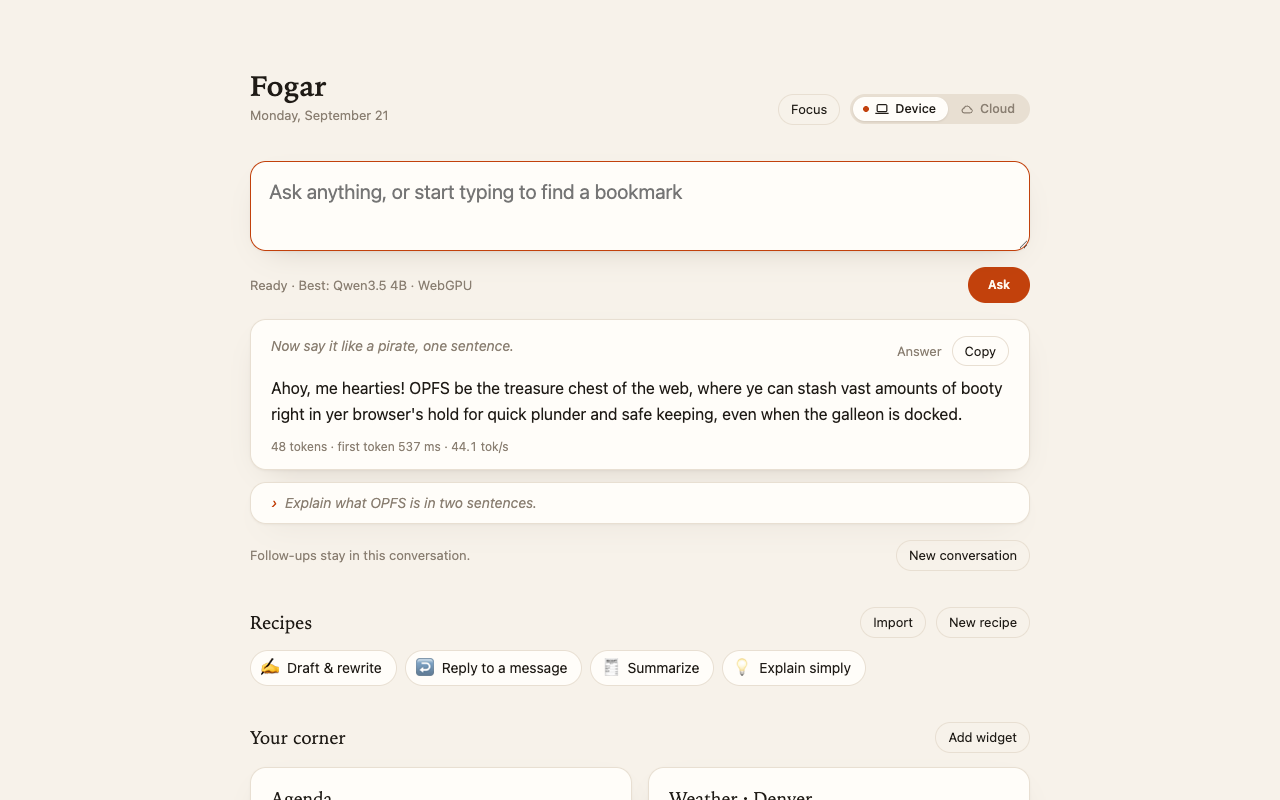
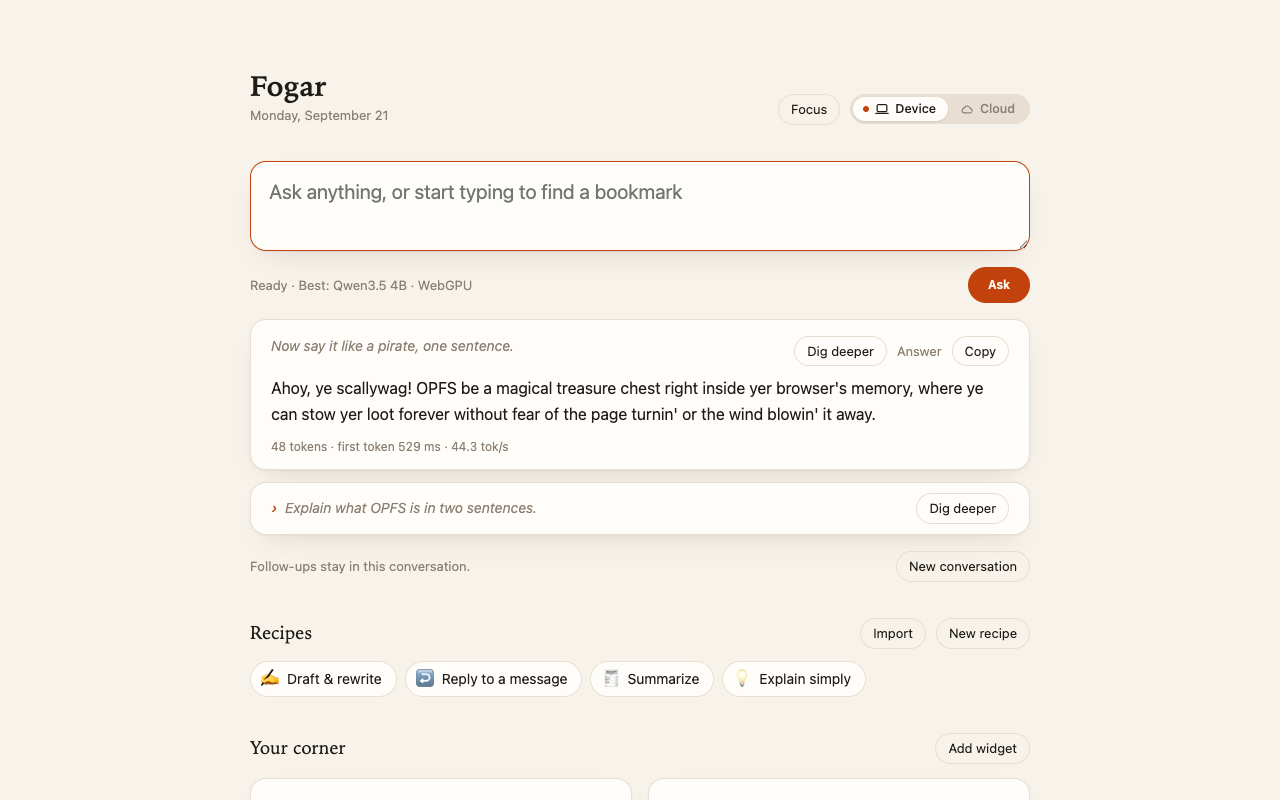
Pre-launch: model loads on intent and releases when hidden; 4B only on Apple; MIT license
- A new tab no longer loads the model on open. The cached model comes
  up when the user types a question, opens a recipe, or asks; a bare
  URL or a search prefix does not trigger it. A tab hidden for five
  minutes releases the model; the next interaction reloads it from
  disk. Removes the N tabs x up to 2.7 GB failure mode and the GPU
  spin-up on every Cmd+T.
- Tier recommendation: the 4B only on Apple silicon, where memory is
  unified. Chrome reports system RAM, not VRAM, so a discrete GPU with
  2 to 4 GB was being handed a 2.7 GB model.
- MIT LICENSE; README license section and load-policy bullet.
- Store screenshots visit the Links sites first so favicons are real,
  and warm the model through the ask box.
- e2e: lazy load, typing loads, hidden release (33 flows).

diff --git a/entrypoints/newtab/app.ts b/entrypoints/newtab/app.ts
@@ -61,11 +61,16 @@ export class App {
   recommended: ModelSpec | null = null;
   private abort: AbortController | null = null;
   private loading = false;
+  private loadPromise: Promise<boolean> | null = null;
+  private releaseTimer: ReturnType<typeof setTimeout> | undefined;
+  /** How long a hidden tab keeps the model in memory before letting it go. Tests shorten this. */
+  releaseAfterMs = 5 * 60_000;
   private readonly readyListeners = new Set<() => void>();
   private toastTimer: ReturnType<typeof setTimeout> | undefined;
 
   async init(): Promise<void> {
     this.settings = await loadSettings();
+    document.addEventListener('visibilitychange', () => this.onVisibility());
     $('thread-clear').onclick = () => this.clearThread();
     // One listener closes any open "Dig deeper" menu on an outside click.
     document.addEventListener('click', (e) => {
@@ -87,6 +92,40 @@ export class App {
 
   onReadyChange(cb: () => void): void {
     this.readyListeners.add(cb);
+  }
+
+  /** A cached model that will load the moment the user shows intent. True only after a first successful load. */
+  autoLoadPending(): boolean {
+    return this.settings.mode === 'local' && this.settings.autoLoad && this.settings.onboarded && !this.local.loaded;
+  }
+
+  /** Can a question be taken right now, counting a model that will load on demand? */
+  canAnswer(): boolean {
+    return this.isReady() || this.autoLoadPending();
+  }
+
+  /**
+   * Load the cached model if it is not loaded yet. Opening a new tab does not load anything: most new tabs are
+   * for typing a URL, and every load costs seconds of GPU work and up to 2.7 GB of memory per tab. Typing a
+   * question, clicking a recipe, or asking does.
+   */
+  ensureModel(): Promise<boolean> {
+    if (this.isReady()) return Promise.resolve(true);
+    if (this.settings.mode !== 'local' || !this.autoLoadPending()) return Promise.resolve(this.isReady());
+    if (!this.loadPromise) this.loadPromise = this.loadModel().finally(() => { this.loadPromise = null; });
+    return this.loadPromise;
+  }
+
+  /** A tab nobody is looking at gives the model back after a while; the next interaction reloads it from disk. */
+  private onVisibility(): void {
+    clearTimeout(this.releaseTimer);
+    if (!document.hidden) return;
+    this.releaseTimer = setTimeout(async () => {
+      if (!document.hidden || this.isBusy() || !this.local.loaded || this.loading) return;
+      await this.local.unload();
+      document.body.dataset.status = 'idle';
+      this.refreshReadiness();
+    }, this.releaseAfterMs);
   }
 
   isReady(): boolean {
@@ -119,14 +158,17 @@ export class App {
 
   refreshReadiness(): void {
     const ready = this.isReady();
-    $<HTMLButtonElement>('ask-btn').disabled = !ready || this.isBusy();
-    $('web-search').hidden = ready;
+    const can = this.canAnswer();
+    $<HTMLButtonElement>('ask-btn').disabled = !can || this.isBusy();
+    $('web-search').hidden = can;
     $('ground-toggle').hidden = !groundingConfigured(this.settings.grounding);
     if (this.settings.mode === 'local') {
       const gpu = this.settings.gpu && LocalProvider.hasWebGPU() && !this.local.fellBackToCpu;
       this.setStatus(this.local.loaded
         ? `Ready · ${this.local.loaded.label} · ${gpu ? 'WebGPU' : 'CPU'}`
-        : this.loading ? $('status').textContent ?? '' : 'No model loaded. Open Settings to download one, or just search.');
+        : this.loading ? $('status').textContent ?? ''
+          : this.autoLoadPending() ? `${modelById(this.settings.modelId).label} · loads when you start typing`
+            : 'No model loaded. Open Settings to download one, or just search.');
     } else {
       let host = '';
       try { host = new URL(this.settings.cloud.endpoint).host; } catch { /* unset */ }
@@ -262,7 +304,7 @@ export class App {
 
   /** Stream a conversation into a new card. `messages` is sent as given; history is appended afterwards. */
   async ask(messages: Message[], opts: AskOptions = {}): Promise<void> {
-    if (!this.isReady()) return;
+    if (!this.isReady() && !(await this.ensureModel())) return;
     this.abort?.abort();
     this.abort = new AbortController();
     const signal = this.abort.signal;
@@ -395,7 +437,7 @@ export class App {
 
   /** The model cannot see bookmarks, so the finder reads them and lets the model pick. Results are links, not prose. */
   async findBookmarks(question: string): Promise<void> {
-    if (!this.isReady()) return;
+    if (!this.isReady() && !(await this.ensureModel())) return;
     this.abort?.abort();
     this.abort = new AbortController();
     const signal = this.abort.signal;

diff --git a/entrypoints/newtab/ui/recipes.ts b/entrypoints/newtab/ui/recipes.ts
@@ -27,7 +27,7 @@ export function initRecipes(app: App): RecipesUI {
     for (const r of await allRecipes()) {
       chips.append(el('button', {
         class: 'chip', type: 'button', 'aria-pressed': String(active === r.id),
-        onclick: () => (active === r.id ? close() : void openRun(r)),
+        onclick: () => { void app.ensureModel(); if (active === r.id) close(); else void openRun(r); },
       } as any, el('span', {}, r.emoji ?? '🧪'), r.name));
     }
   }
@@ -49,9 +49,9 @@ export function initRecipes(app: App): RecipesUI {
   function buildRunForm(recipe: Recipe, prefill: Record<string, string> = {}): HTMLElement {
     const fields = recipe.inputs.map((i) => inputField(i, prefill[i.key]));
     const values = () => Object.fromEntries(fields.map((f, idx) => [recipe.inputs[idx]!.key, f.read()]));
-    const run = el('button', { class: 'primary', type: 'button', disabled: !app.isReady(), onclick: () => void app.ask(recipeMessages(recipe, values(), SYSTEM_PROMPT), { label: recipe.name }) }, 'Run');
-    const hint = el('span', { class: 'hint' }, app.isReady() ? '' : 'Load a model or set a cloud endpoint to run recipes.');
-    app.onReadyChange(() => { run.disabled = !app.isReady(); hint.textContent = app.isReady() ? '' : 'Load a model or set a cloud endpoint to run recipes.'; });
+    const run = el('button', { class: 'primary', type: 'button', disabled: !app.canAnswer(), onclick: () => void app.ask(recipeMessages(recipe, values(), SYSTEM_PROMPT), { label: recipe.name }) }, 'Run');
+    const hint = el('span', { class: 'hint' }, app.canAnswer() ? '' : 'Load a model or set a cloud endpoint to run recipes.');
+    app.onReadyChange(() => { run.disabled = !app.canAnswer(); hint.textContent = app.canAnswer() ? '' : 'Load a model or set a cloud endpoint to run recipes.'; });
     const textareas = fields.filter((_, idx) => recipe.inputs[idx]!.type === 'textarea').map((f) => f.node);
     const others = fields.filter((_, idx) => recipe.inputs[idx]!.type !== 'textarea').map((f) => f.node);
     const form = el('div', { class: 'recipe-run' }, ...textareas);

diff --git a/entrypoints/newtab/main.ts b/entrypoints/newtab/main.ts
@@ -31,6 +31,7 @@ const PROMO: Array<[label: string, href: string]> = [
 async function main() {
   const app = new App();
   await app.init();
+  const releaseMs = params.get('releasems'); if (releaseMs) app.releaseAfterMs = Number(releaseMs); // test hook
   const s = app.settings;
   app.device = await detectDevice();
   app.recommended = recommendModel(app.device);
@@ -39,7 +40,7 @@ async function main() {
 
   if (EVAL) { await runEval(app); return; }
   if (SMOKE || E2E) {
-    s.onboarded = true; s.autoLoad = false;
+    s.onboarded = true; if (params.get('autoload') !== '1') s.autoLoad = false;
     const cloudPort = params.get('cloud');
     if (cloudPort) { s.mode = 'cloud'; s.cloud = { endpoint: `http://127.0.0.1:${cloudPort}/v1`, apiKey: 'test-key', model: 'mock-model' }; }
     const altCloud = params.get('altcloud'); // cloud configured but not selected, for the "Ask the cloud model" path
@@ -89,9 +90,9 @@ async function main() {
   }
   if (E2E) return;
 
-  // New tab after the first successful load: bring the cached model up without a click.
-  if (s.mode === 'local' && s.autoLoad && s.onboarded) await app.loadModel();
-  if (selection && app.isReady()) { const q = $<HTMLTextAreaElement>('prompt').value; $<HTMLTextAreaElement>('prompt').value = ''; void app.askQuestion(q, { context: pageContext }); }
+  // A new tab loads nothing by itself. The cached model comes up on intent (typing, a recipe, a question);
+  // see App.ensureModel. A right-click question is intent.
+  if (selection && app.canAnswer()) { const q = $<HTMLTextAreaElement>('prompt').value; $<HTMLTextAreaElement>('prompt').value = ''; void app.askQuestion(q, { context: pageContext }); }
 }
 
 /** Runs a fixed prompt set against one model and reports timings and outputs as JSON for scripts/eval-models.mjs. */

diff --git a/lib/device.ts b/lib/device.ts
@@ -24,15 +24,17 @@ export async function detectDevice(): Promise<DeviceProfile> {
 /**
  * Pick the largest tier that will feel good on this machine. Chrome caps reported memory at 8 GB, so "8" means
  * "8 or more". The 4B model (2.7 GB) measured 44 tok/s on Apple silicon and is the first tier that gets facts,
- * arithmetic, and classification right, so it is recommended on Apple, NVIDIA, and AMD GPUs with 8 GB+.
+ * arithmetic, and classification right. Chrome reports system memory, not video memory, so only Apple's unified
+ * memory makes the 4B a safe recommendation; a discrete GPU with 2 to 4 GB would fail and fall back to a slow CPU
+ * run. Other WebGPU machines with 8 GB+ get the 2B; the 4B stays an explicit choice with its size stated.
  * Integrated Intel and unknown GPUs get the 2B; machines without WebGPU get the 0.8B on the CPU.
  */
 export function recommendModel(d: DeviceProfile): ModelSpec {
   const mem = d.memoryGB ?? 4;
   const pick = (id: string) => MODELS.find((m) => m.id === id)!;
   const vendor = `${d.gpuVendor ?? ''} ${d.gpuArchitecture ?? ''}`.toLowerCase();
-  const strongGpu = /apple|metal|nvidia|amd|radeon/.test(vendor);
-  if (d.webgpu && mem >= 8 && strongGpu) return pick('qwen3.5-4b');
+  const unifiedMemory = /apple|metal/.test(vendor);
+  if (d.webgpu && mem >= 8 && unifiedMemory) return pick('qwen3.5-4b');
   if (d.webgpu && mem >= 8) return pick('qwen3.5-2b');
   if (mem <= 2) return pick('qwen3-0.6b');
   return pick('qwen3.5-0.8b');

diff --git a/entrypoints/newtab/ui/askbar.ts b/entrypoints/newtab/ui/askbar.ts
@@ -40,6 +40,12 @@ export function initAskBar(app: App, deps: AskBarDeps): void {
   ];
   for (const [label, run] of EXAMPLES) examples.append(el('button', { class: 'example', type: 'button', onclick: run }, label));
   prompt.addEventListener('input', refreshExamples);
+  // Typing something that reads like a question is the signal to bring the cached model up. A bare URL or a
+  // search prefix is not, so the tabs people open just to navigate stay cheap.
+  prompt.addEventListener('input', () => {
+    const v = prompt.value.trim();
+    if (v.length >= 3 && /\s/.test(v) && !SEARCH_PREFIX.test(v)) void app.ensureModel();
+  });
   refreshExamples();
 
   const submit = () => {
@@ -58,7 +64,7 @@ export function initAskBar(app: App, deps: AskBarDeps): void {
     const calc = tryCalculate(q);
     if (calc) { app.showCalculation(q, calc.display, calc.expression); prompt.value = ''; refreshExamples(); return; }
     // Before a model is ready the box still does something useful: a plain web search.
-    if (!app.isReady() && !app.isBusy()) { webSearch(q); return; }
+    if (!app.canAnswer() && !app.isBusy()) { webSearch(q); return; }
     void app.askQuestion(q, { ground: ground.checked && !$('ground-toggle').hidden });
     prompt.value = ''; refreshExamples();
   };

diff --git a/README.md b/README.md
@@ -11,7 +11,8 @@ Live at [fogar.ai](https://fogar.ai). Built by [Dylan Roy](https://dylanroy.com)
 Release candidate v0.1.0. Everything below works end to end and is covered by `npm run test:spike`, which loads the built extension into Chromium and drives 23 flows against local mock servers.
 
 - Ask bar with streaming, Markdown-rendered answers and follow-ups, from a local model (wllama, WebGPU or CPU) or any OpenAI-compatible endpoint with your own key.
-- Model tiers: Qwen3.5 0.8B (533 MB), 2B (1.3 GB), 4B (2.7 GB). First run recommends a tier from the GPU vendor and device memory. Thinking mode is off. WebGPU failures fall back to the CPU.
+- Model tiers: Qwen3.5 0.8B (533 MB), 2B (1.3 GB), 4B (2.7 GB). First run recommends a tier from the GPU vendor and device memory; the 4B only on Apple silicon, where memory is unified. Thinking mode is off. WebGPU failures fall back to the CPU.
+- A new tab loads nothing by itself. The cached model comes up when you type a question, open a recipe, or ask, and a tab nobody has looked at for five minutes gives it back. Opening tabs to type a URL stays free.
 - One box, several outcomes: URLs open, `?` searches, "remind me…" sets a reminder, "todo: …" adds a todo, arithmetic is computed locally, bookmark questions go to a finder that has the model sort your bookmarks, everything else goes to the model. Cmd/Ctrl+Enter always searches.
 - Opt-in web grounding. Free by default with no key: DuckDuckGo's Instant Answer API plus Wikipedia, good for well-known people, places, and terms. Add a Brave Search or Tavily key for full web results. Snippets go in front of the question; the answer cites its sources.
 - Recipes: data-only prompt forms. Four built-ins. Create, edit, import, export, share as a link, pin to the page.
@@ -107,3 +108,7 @@ See [ROADMAP.md](ROADMAP.md) for phases, gates, the recipe gallery plan, and eve
 ## Privacy stance
 
 Local mode makes no network requests after the model is cached. Cloud mode sends prompts only to the endpoint the user typed in. No analytics in the extension. This is also the cheapest possible Chrome Web Store data disclosure.
+
+## License
+
+MIT. See [LICENSE](LICENSE).
